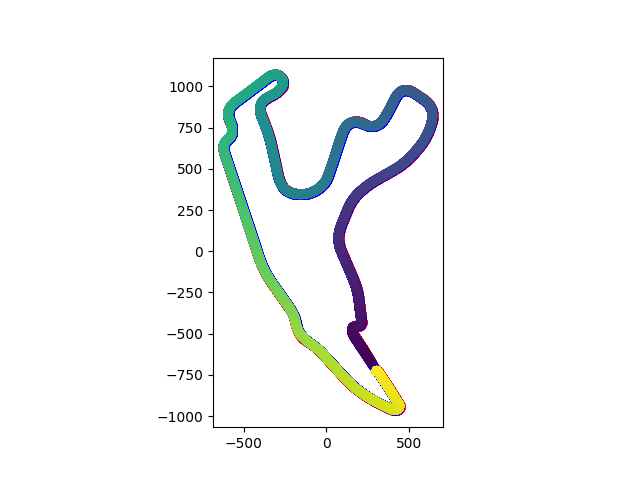
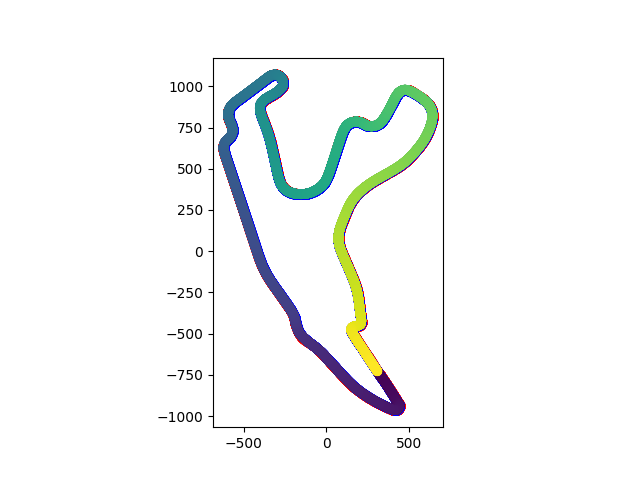
Tuned monza, got spa mapping, need to tune spa still

Changed region(s): [[0.3438, 0.125, 0.6875, 0.875], [0.2812, 0.4062, 0.3125, 0.4688]]

diff --git a/agent/control/spatial_mpc.py b/agent/control/spatial_mpc.py
@@ -56,7 +56,7 @@ class SpatialMPC:
 
         # Maximum lateral acceleration
         self.ay_max = self.SpeedProfileConstraints["ay_max"]
-        
+
         # Maximum steering angle
         self.delta_max = delta_max
 
@@ -77,7 +77,9 @@ class SpatialMPC:
     def v_max(self) -> float:
         return self.SpeedProfileConstraints["v_max"]
 
-    def compute_speed_profile(self, reference_path, end_vel=None):
+    def compute_speed_profile(
+        self, reference_path, end_vel=None, ay_max_overwrite=None, a_min_overwrite=None
+    ):
         """
         Compute a speed profile for the path. Assign a reference velocity
         to each waypoint based on its curvature.
@@ -89,13 +91,24 @@ class SpatialMPC:
         N = len(reference_path)
 
         # Constraints
-        a_min = np.ones(N - 1) * self.SpeedProfileConstraints["a_min"]
+
         a_max = np.ones(N - 1) * self.SpeedProfileConstraints["a_max"]
         v_min = np.ones(N) * self.SpeedProfileConstraints["v_min"]
         v_max = np.ones(N) * self.SpeedProfileConstraints["v_max"]
 
         # Maximum lateral acceleration
-        ay_max = self.SpeedProfileConstraints["ay_max"]
+        if ay_max_overwrite is None:
+            ay_max = self.SpeedProfileConstraints["ay_max"]
+        else:
+            logger.error(
+                f"Overwriting ay max with: {ay_max_overwrite}, remove this later"
+            )
+            ay_max = ay_max_overwrite
+
+        if a_min_overwrite is None:
+            a_min = np.ones(N - 1) * self.SpeedProfileConstraints["a_min"]
+        else:
+            a_min = np.ones(N - 1) * a_min_overwrite
 
         # Inequality Matrix
         D1 = np.zeros((N - 1, N))
@@ -119,8 +132,8 @@ class SpatialMPC:
             # if v_max_dyn < v_max[i]:
             #     v_max[i] = v_max_dyn
 
-            v_max[i] = min([v_max_dyn, v_max[i]]) +2e0
-            v_min[i] = min([v_max_dyn, v_min[i]]) -2e0
+            v_max[i] = min([v_max_dyn, v_max[i]]) + 2e0
+            v_min[i] = min([v_max_dyn, v_min[i]]) - 2e0
 
         if end_vel:
             v_max[-1] = min(end_vel, v_max[-1])
@@ -141,14 +154,26 @@ class SpatialMPC:
         # Solve optimization problem
         problem = osqp.OSQP()
         problem.setup(P=P, q=q, A=D, l=l, u=u, verbose=False)
-        speed_profile = problem.solve().x
+        # speed_profile = problem.solve().x
+        dec = problem.solve()
+        speed_profile = dec.x
 
-        # Assign reference velocity to every waypoint
-        for i, wp in enumerate(reference_path):
-            wp["v_ref"] = speed_profile[i]
+        if dec.info.status == "solved":
 
-        self.speed_profile = speed_profile
-        return reference_path
+            # Assign reference velocity to every waypoint
+            for i, wp in enumerate(reference_path):
+                wp["v_ref"] = speed_profile[i]
+
+            self.speed_profile = speed_profile
+            return reference_path
+
+        else:
+            message = f"Infeasible problem! reference path:\n"
+            failed_reference_path = np.array(
+                [[val["x"], val["y"]] for i, val in enumerate(reference_path)]
+            )
+            logger.warning(message + f"{failed_reference_path}")
+            return reference_path
 
     def construct_waypoints(self, waypoint_coordinates):
         """
@@ -229,8 +254,8 @@ class SpatialMPC:
             )
 
             # Save predicted coordinates in world coordinate frame
-            predicted_locations[n,:] = predicted_temporal_state[:-1]
-            
+            predicted_locations[n, :] = predicted_temporal_state[:-1]
+
         return predicted_locations
 
     def _init_problem(self, spatial_state, reference_path):
@@ -297,7 +322,7 @@ class SpatialMPC:
 
             umax_dyn[self.nu * n] = min([vmax_dyn, umax_dyn[self.nu * n], v_ref]) + 1e-1
             umin_dyn[self.nu * n] = min([vmax_dyn, umin_dyn[self.nu * n], v_ref]) - 1e-1
-        
+
         ub = (
             np.array([reference_path[i]["width"] / 2 for i in range(self.N)])
             - self.model.safety_margin
@@ -359,7 +384,7 @@ class SpatialMPC:
 
     def get_control(self, reference_path, offset=0):
         """
-        Get control signal given the current position of the car. 
+        Get control signal given the current position of the car.
         Solves a finite time optimization problem based on the linearized car model.
         """
         self.reference_path = self.construct_waypoints(reference_path)

diff --git a/agent/agent.py b/agent/agent.py
@@ -41,6 +41,7 @@ class ElTuarMPC(AssettoCorsaInterface):
         self.step_count = 0
         System_Monitor.verbosity = self.cfg["debugging"]["verbose"]
         self.visualiser = Visualiser(self, self.cfg["debugging"])
+        self.last_update_time = time.time()
 
     def setup(self):
         self.setup_state()
@@ -244,7 +245,9 @@ class ElTuarMPC(AssettoCorsaInterface):
         )
 
     def _maybe_add_observations_to_map(self, obs: Dict):
-        if not self.mapper.map_built:
+        elapsed_time_since_last_update = time.time() - self.last_update_time
+
+        if not self.mapper.map_built and elapsed_time_since_last_update > 0.1:
             tracks = self.tracks
             self.mapper.process_segmentation_tracks(
                 obs["full_pose"],
@@ -252,6 +255,7 @@ class ElTuarMPC(AssettoCorsaInterface):
                 tracks["right"],
                 tracks["centre"],
             )
+            self.last_update_time = time.time()
 
     def _maybe_update_localisation(self):
         if self.localiser:
@@ -278,8 +282,8 @@ class ElTuarMPC(AssettoCorsaInterface):
             self.step_count += 1
 
     def _load_model(self):
-        # tracks = load.track_map(self.cfg["mapping"]["map_path"])
-        # self._calculate_speed_profile(tracks["centre"])
+        tracks = load.track_map(self.cfg["mapping"]["map_path"])
+        self._calculate_speed_profile(tracks["centre"])
         self.mapper.map_built = True
 
     def _calculate_speed_profile(self, centre_track: np.array):
@@ -298,16 +302,20 @@ class ElTuarMPC(AssettoCorsaInterface):
                 logger.info(
                     f"Zero Distance Waypoint at: ({waypoint['x']}, {waypoint['y']})"
                 )
-        reference_path = self.controller.compute_speed_profile(reference_path)
+        reference_path = self.controller.compute_speed_profile(
+            reference_path, ay_max_overwrite=24.5, a_min_overwrite=-0.15
+        )
 
         plot_ref_path = np.array(
             [[val["x"], val["y"], val["v_ref"]] for i, val in enumerate(reference_path)]
         ).T
+        logger.debug(plot_ref_path)
         self._plot_speed_profile(plot_ref_path)
         self.reference_speeds = savgol_filter(plot_ref_path[2], 21, 3)
+        logger.debug(f"{self.reference_speeds}")
 
     def _plot_speed_profile(self, ref_path: np.array):
-        fig = plt.figure()
+        fig = plt.figure(dpi=300)
         ax = fig.add_subplot(111)
         sp = ax.scatter(
             ref_path[0, :],
@@ -319,5 +327,6 @@ class ElTuarMPC(AssettoCorsaInterface):
         ax.set_aspect(1)
         plt.gray()
         fig.colorbar(sp)
-        # plt.show()
-        plt.savefig("monza_speed.png")
+        fig.tight_layout()
+        plt.savefig("spa_speed.png")
+        plt.show()

diff --git a/agent/mapping/view_map.py b/agent/mapping/view_map.py
@@ -6,7 +6,7 @@ from map_maker import MapMaker
 if __name__ == "__main__":
     # track_dict = np.load("../../track_maps/monza.npy", allow_pickle=True).item()
     track_dict = np.load(
-        "../../track_maps/spa_verysmooth.npy", allow_pickle=True
+        "../../track_maps/spa_not_very_smooth.npy", allow_pickle=True
     ).item()
 
     outside = track_dict.get("outside_track")
@@ -41,12 +41,12 @@ if __name__ == "__main__":
         axis=1,
     )
 
-    # output_map = {
-    #     "outside_track": outside,
-    #     "inside_track": inside,
-    #     "centre_track": centre,
-    # }
-    # np.save("track_maps/monza_badT1_verysmooth.npy", output_map, allow_pickle=True)
+    output_map = {
+        "outside_track": outside,
+        "inside_track": inside,
+        "centre_track": centre,
+    }
+    np.save("../../track_maps/spa_verysmooth.npy", output_map, allow_pickle=True)
 
     fig = plt.figure()
     ax = fig.add_subplot(111)

diff --git a/agent/localisation/localiser.py b/agent/localisation/localiser.py
@@ -208,8 +208,9 @@ class LocalisationProcess(mp.Process):
 
     def run(self):
         while self.is_running:
-            if not self._perceiver.is_tracklimits_stale:
+            if self._perceiver.is_tracklimits_stale:
                 continue
+
             self._score_particles(self._perceiver.tracklimits)
 
     def _score_particles(self, observation: Dict):
@@ -598,7 +599,7 @@ class LocalisationProcess(mp.Process):
         self._average_distance_between_map_points = np.mean(distances)
 
     def _initialise_score_distribution(self):
-        mean, sigma = self._score_distribution_mean, self._score_distribution_mean
+        mean, sigma = self._score_distribution_mean, self._score_distribution_sigma
         self._distribution = FastNormalDistribution(mean, sigma)
         self._pdf = self._distribution.pdf
         self._scale = np.max(self._pdf(np.linspace(-10, 10, 100)))

diff --git a/agent/control/controller.py b/agent/control/controller.py
@@ -72,9 +72,13 @@ class Controller:
         mpc = self._controller.model_predictive_controller
         return mpc.construct_waypoints(path)
 
-    def compute_speed_profile(self, path: np.array) -> np.array:
+    def compute_speed_profile(
+        self, path: np.array, ay_max_overwrite=None, a_min_overwrite=None
+    ) -> np.array:
         mpc = self._controller.model_predictive_controller
-        return mpc.compute_speed_profile(path)
+        return mpc.compute_speed_profile(
+            path, ay_max_overwrite=ay_max_overwrite, a_min_overwrite=a_min_overwrite
+        )
 
     @property
     def reference_speed(self) -> float:

diff --git a/agent/utils/fast_distributions.py b/agent/utils/fast_distributions.py
@@ -1,5 +1,6 @@
 import numpy as np
 from scipy.stats import norm
+from loguru import logger
 
 
 class FastNormalDistribution:
@@ -7,7 +8,7 @@ class FastNormalDistribution:
         self._location = location
         self._scale = scale
         self._distribution = norm
-    
+
     def pdf(self, samples: np.array) -> np.array:
         samples -= self._location
         samples /= self._scale

diff --git a/agent/mapping/map_maker.py b/agent/mapping/map_maker.py
@@ -150,7 +150,10 @@ class MapMaker:
     @staticmethod
     def smooth_boi(arr, i, window_length=15, polyorder=1):
         return savgol_filter(
-            [p[i] for p in arr], window_length=window_length, polyorder=polyorder
+            [p[i] for p in arr],
+            window_length=window_length,
+            polyorder=polyorder,
+            mode="wrap",
         )
 
     @staticmethod

diff --git a/agent/localisation/localisation.py b/agent/localisation/localisation.py
@@ -86,8 +86,6 @@ class ParticleFilter:
             logger.warning("Localisation reset")
             self.update_particles(observation)
 
-        self.is_localised()
-
     def downsample_observation(self, observation: np.array) -> np.array:
         for i, track in enumerate(observation):
             distances = np.linalg.norm(track[1:] - track[:-1], axis=1)
